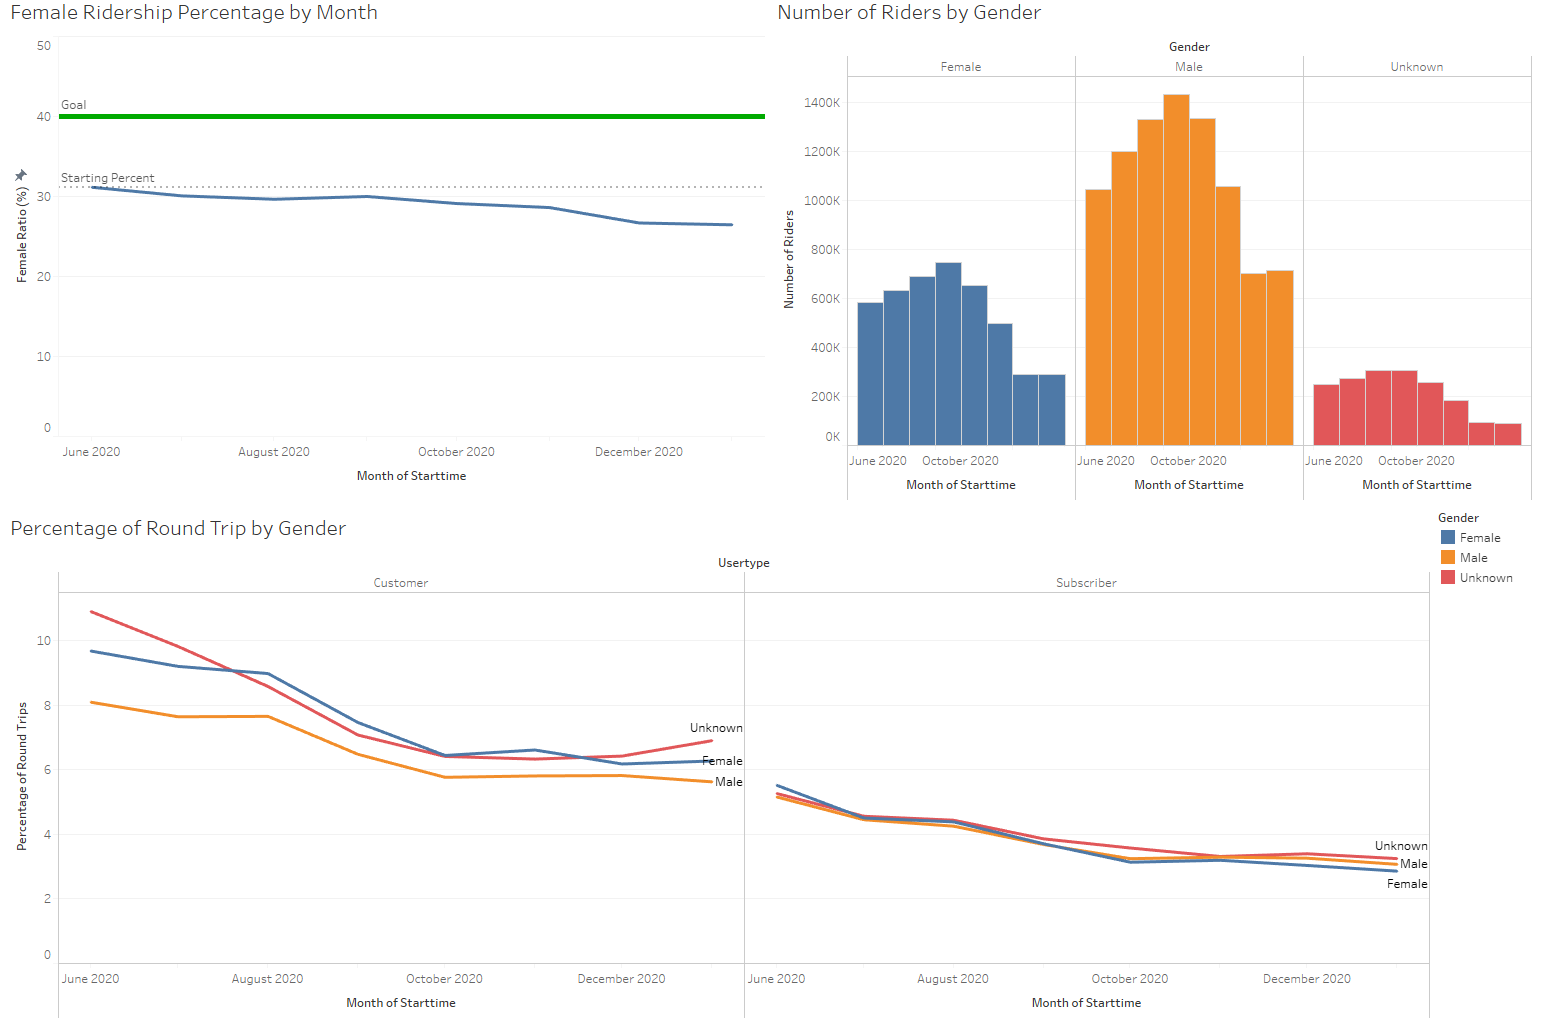
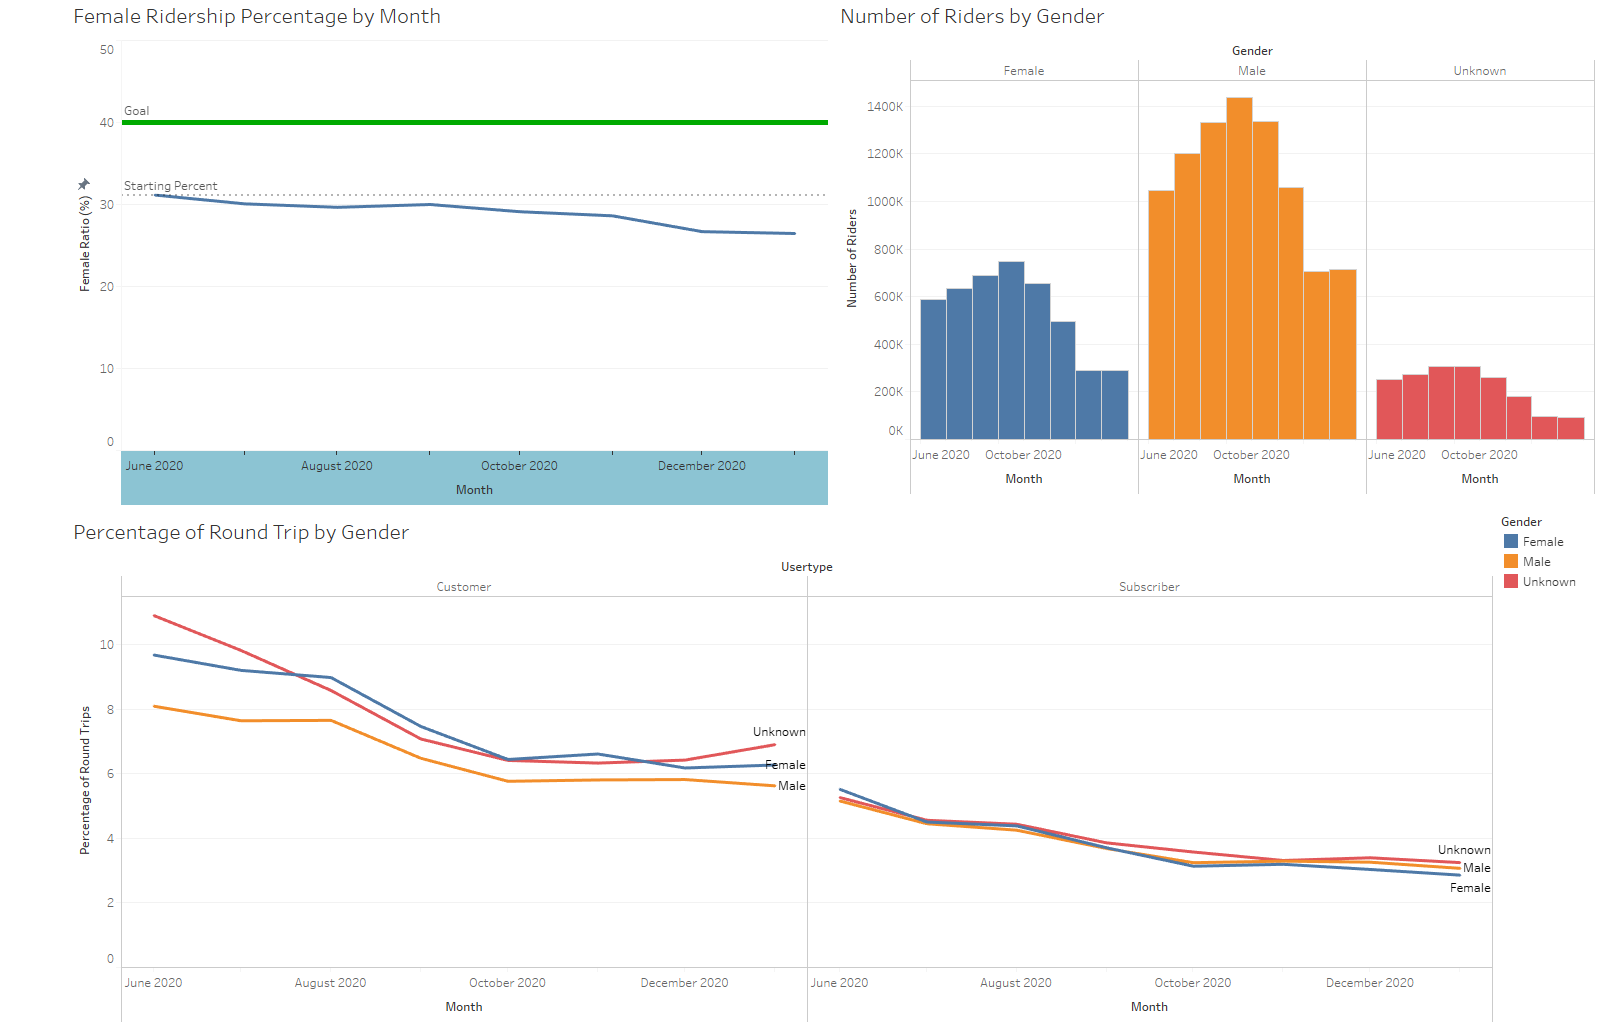
Starting writeup for dashboard 2

diff --git a/README.md b/README.md
@@ -2,18 +2,9 @@
 
 ## Summary
 
-The link to the dashboards and visualizations on Tableau Public is <https://public.tableau.com/profile/joe.kell7438#!/vizhome/CitibikeDashboard_16137976314640/Sheet1>
-
-***** Need to edit
+The link to the dashboards and visualizations on Tableau Public is <https://public.tableau.com/profile/joe.kell7438#!/vizhome/CitibikeDashboard_16137976314640/SeasonalityDashboard>
 
 In this project I am building dashboards and other visualizations using Tableau to relay information about the Citi Bike data from New York City.
-
-### Using the Final Application
-The application can be reached at <https://joekell.github.io/D3InteractiveScatterPlot/> and is hosted on Github Pages. When opening the dashboard, the x-axis of the scatter plot represents the average age of people in the state and the y-axis represents the percent of people that smoke:
-
-![Opening Dashboard](FinalImages/SiteLoad.PNG)
-
-You are then able to scroll down to see detailed notes on using the chart.
 
 ## Tools
 These are the tools, techniques, and resources used in this project.
@@ -48,3 +39,10 @@ The purpose of this dashboard is to explore the effectiveness of Citi Bike's mos
 The next visual (upper right) is a bar chart showing the total number of riders for each gender by month.
 
 The visual along the bottom gives an idea of what people are using the bikes for. Typically when someone makes a "round trip" - meaning they start and end at the same station - they are using the bike for exercise. This visual looks at the percentage of trips that were round trips broken down by gender and user type.
+
+The concerning message is that the campaign intended to increase female ridership has actually decreased it.
+
+
+### Seasonal Use Dashboard
+
+![Seasonality Dashboard](FinalImages/SeasonalityDashboard.PNG)

diff --git a/Instructions/README.md b/Instructions/README.md
@@ -93,11 +93,6 @@ Your final submission should include:
   * 1 Story 
 * A text or markdown file with your analysis on the phenomenons you uncovered from the data.
 
-## Sharing Your Work
-In order to share your work, we are asking that you will save your workbook as a .twbx file so that your TA's can grade them.
-
-To save your workbook as a .twbx file, you will just need to select "Save As..." from the "File" dropdown. Then, select the .twbx option.
-
 ## Assessment
 
 Your final product will be assessed on the following metrics:
